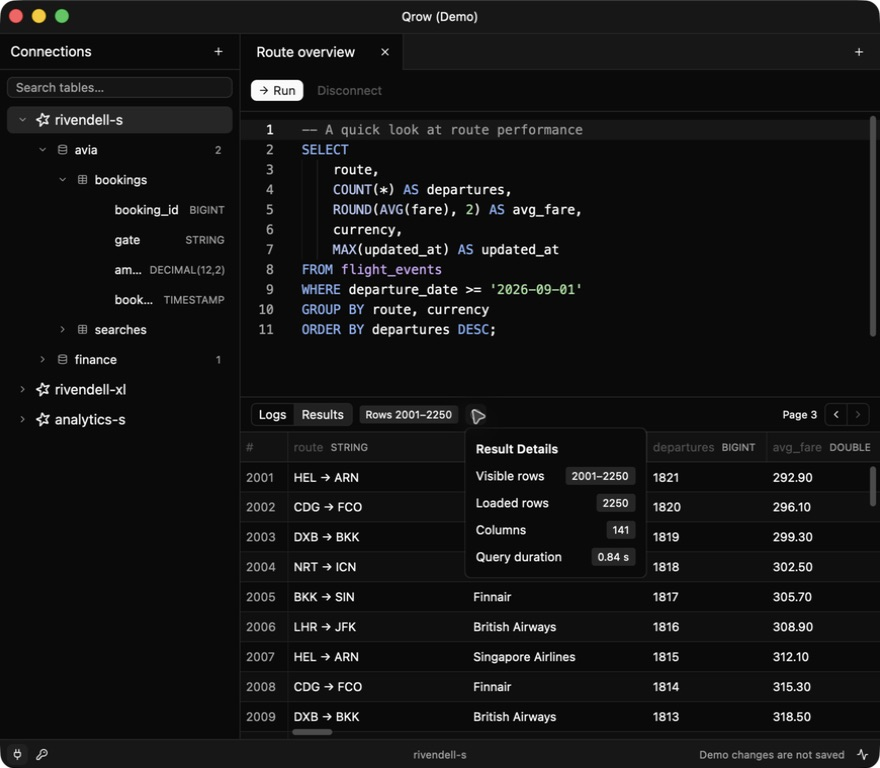
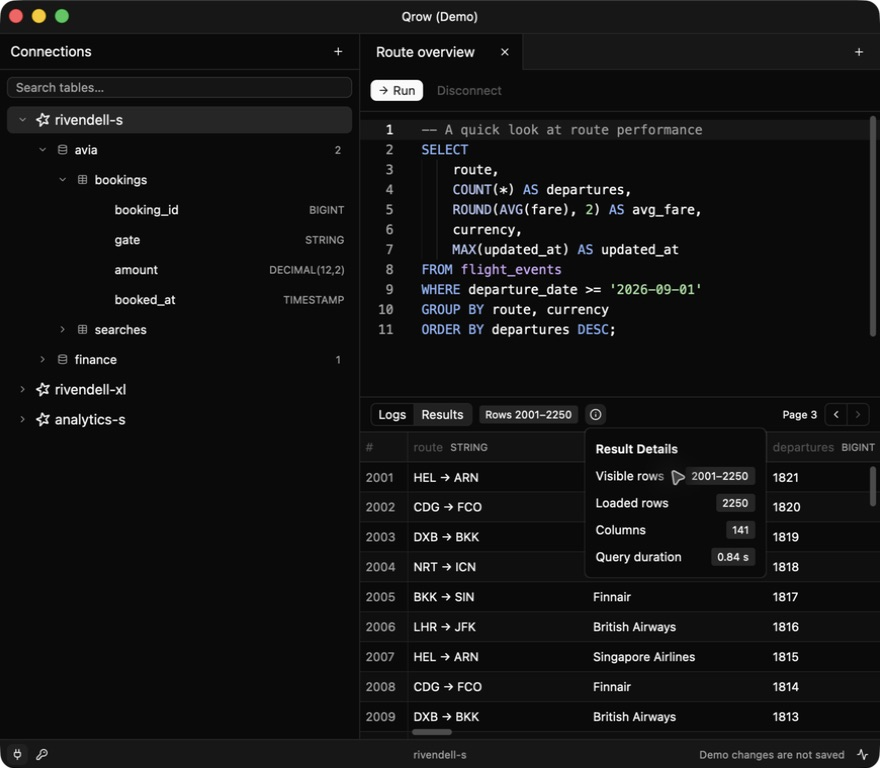
fix(ui): use arrow pagination at every viewport

diff --git a/tests/ui/metadata.rs b/tests/ui/metadata.rs
@@ -22,7 +22,8 @@ fn assert_toolbar_fits(app: &TestApp, cx: &mut TestAppContext) {
             "result-count",
             "result-details",
             "page-label",
-            "pagination-buttons",
+            "previous-page",
+            "next-page",
         ] {
             if window.try_find(id).is_none() {
                 continue;
@@ -49,13 +50,27 @@ fn result_metadata_adapts_to_pane_width_and_ui_scale(cx: &mut TestAppContext) {
                 app.dispatch(cx, DecreaseUiScale);
             }
         }
+        let mut pagination_width = None;
         // 75% is the lower limit; three decreases clamp the scale to it.
         for width in [1900., 850., 700., 560., 1900.] {
             cx.simulate_window_resize(app.window, size(px(width * scale), px(650. * scale)));
             app.settle(cx);
             assert_toolbar_fits(&app, cx);
             app.update(cx, |window, _| {
-                if width == 1900. {
+                let current_width = bounds_of(window, "next-page").right()
+                    - bounds_of(window, "previous-page").left();
+                let expected_width = *pagination_width.get_or_insert(current_width);
+                assert_eq!(
+                    current_width, expected_width,
+                    "pagination keeps its icon width"
+                );
+                for (id, name) in [
+                    ("previous-page", "Previous Page"),
+                    ("next-page", "Next Page"),
+                ] {
+                    assert_eq!(label(window, id).as_deref(), Some(name));
+                }
+                if width >= 850. {
                     assert!(window.try_find("result-details").is_none());
                     assert_eq!(
                         label(window, "result-range").as_deref(),
@@ -87,7 +102,7 @@ fn result_metadata_adapts_to_pane_width_and_ui_scale(cx: &mut TestAppContext) {
                     }
                 }
             });
-            if width < 1900. {
+            if width < 850. {
                 app.click(cx, "result-details");
                 app.update(cx, |window, _| {
                     assert_eq!(
@@ -142,7 +157,7 @@ fn result_metadata_tooltips_match_detail_labels(cx: &mut TestAppContext) {
             .collect::<Vec<_>>(),
         ["Visible rows", "Loaded rows", "Columns", "Query duration"]
     );
-    cx.simulate_window_resize(app.window, size(px(850.), px(650.)));
+    cx.simulate_window_resize(app.window, size(px(700.), px(650.)));
     app.settle(cx);
     app.click(cx, "result-details");
     app.update(cx, |window, _| {
@@ -156,7 +171,7 @@ fn result_metadata_tooltips_match_detail_labels(cx: &mut TestAppContext) {
 #[gpui_kit::test]
 fn result_details_support_keyboard_dismissal_and_page_updates(cx: &mut TestAppContext) {
     let app = TestApp::launch_demo(cx);
-    cx.simulate_window_resize(app.window, size(px(850.), px(650.)));
+    cx.simulate_window_resize(app.window, size(px(700.), px(650.)));
     app.settle(cx);
     for _ in 0..40 {
         if app.update(cx, |window, _| {

diff --git a/src/ui/result_toolbar.rs b/src/ui/result_toolbar.rs
@@ -235,20 +235,16 @@ impl Qrow {
                         Button::new("previous-page")
                             .small()
                             .ghost()
-                            .when(compact, |button| {
-                                button.icon(IconName::ChevronLeft).tooltip("Previous Page")
-                            })
-                            .when(!compact, |button| button.w_24().label("Previous"))
+                            .icon(IconName::ChevronLeft)
+                            .tooltip("Previous Page")
                             .accessibility_label("Previous Page")
                             .disabled(page == 0)
                             .on_click(cx.listener(|this, _, _, cx| this.previous_page(cx))),
                         Button::new("next-page")
                             .small()
                             .ghost()
-                            .when(compact, |button| {
-                                button.icon(IconName::ChevronRight).tooltip("Next Page")
-                            })
-                            .when(!compact, |button| button.w_24().label("Next"))
+                            .icon(IconName::ChevronRight)
+                            .tooltip("Next Page")
                             .accessibility_label("Next Page")
                             .disabled(page + 1 >= pages && (!tab.more || tab.busy))
                             .on_click(cx.listener(|this, _, _, cx| this.next_page(cx))),

diff --git a/tests/e2e/queries.rs b/tests/e2e/queries.rs
@@ -34,7 +34,7 @@ fn result_details_follow_fetched_pages_and_empty_results(cx: &mut TestAppContext
     let kyuubi = Kyuubi::get();
     let (workspace, credentials) = kyuubi.workspace("SELECT id FROM range(1001)", PASSWORD);
     let app = TestApp::launch_with(cx, workspace, credentials);
-    cx.simulate_window_resize(app.window, size(px(750.), px(650.)));
+    cx.simulate_window_resize(app.window, size(px(600.), px(650.)));
     app.settle(cx);
     app.click(cx, "result-details");
     app.update(cx, |window, _| {

diff --git a/docs/results.md b/docs/results.md
@@ -12,7 +12,7 @@ header. Column headers remain visible when a query returns columns but no rows.
 
 ## Browse and copy
 
-Each page contains up to 1,000 rows. **Next** fetches another page when needed.
+Each page contains up to 1,000 rows. **Next Page** fetches another page when needed.
 The bar above the table shows neutral tags for the visible row range,
 downloaded row count, column count, and query duration. **Loaded** counts the
 rows in the preview. It does not give the total number of rows on the server.
@@ -20,21 +20,23 @@ The tag tooltips use the same names as the rows in **Result Details**:
 **Visible rows**, **Loaded rows**, **Columns**, and **Query duration**.
 When the tags do not fit, the bar keeps the row range and shows an information
 button. Click **Result Details** to read all four values as neutral tags.
-The heading uses semibold text. At the smallest
-widths, the row range also moves into **Result Details**. The page buttons
-show arrows at these widths. Their tooltips show **Previous Page** and
-**Next Page**.
+The heading uses semibold text. At the smallest widths, the row range also
+moves into **Result Details**. The page buttons show arrows at all widths.
+Their tooltips show **Previous Page** and **Next Page**.
+At large UI scales, a wide sidebar can leave too little space for the page
+buttons. Reduce the sidebar width if the buttons do not fit.
 
 With focus in the toolbar, use Tab to focus **Result Details**.
 Press Enter or Space to open it.
 Press Escape or click outside to close it. Escape returns focus to the button.
 The values update as rows arrive. The query duration is absent before the
 first query.
-**Previous** and **Next** reuse downloaded pages without executing SQL again.
+**Previous Page** and **Next Page** reuse downloaded pages without
+executing SQL again.
 You can browse downloaded pages while a fetch runs.
 
-Row numbers refer to the full result. If Next finds no more rows, the last
-populated page stays visible. Changing pages clears the selection and resets
+Row numbers refer to the full result. If **Next Page** finds no more rows,
+the last populated page stays visible. Changing pages clears the selection and resets
 the scroll position. New batches preserve the current scroll position.
 
 Scroll vertically to see more rows and horizontally to see more columns.
@@ -85,7 +87,7 @@ same time.
 
 Cancellation and fetch failures retain downloaded rows. Disconnecting releases
 unfetched rows, but the downloaded rows remain visible. Selecting another
-connection keeps the preview and its session. **Next** can fetch remaining
+connection keeps the preview and its session. **Next Page** can fetch remaining
 rows from that session, even when another connection is selected. The next
 accepted query replaces the previous preview, regardless of the selected
 connection.
